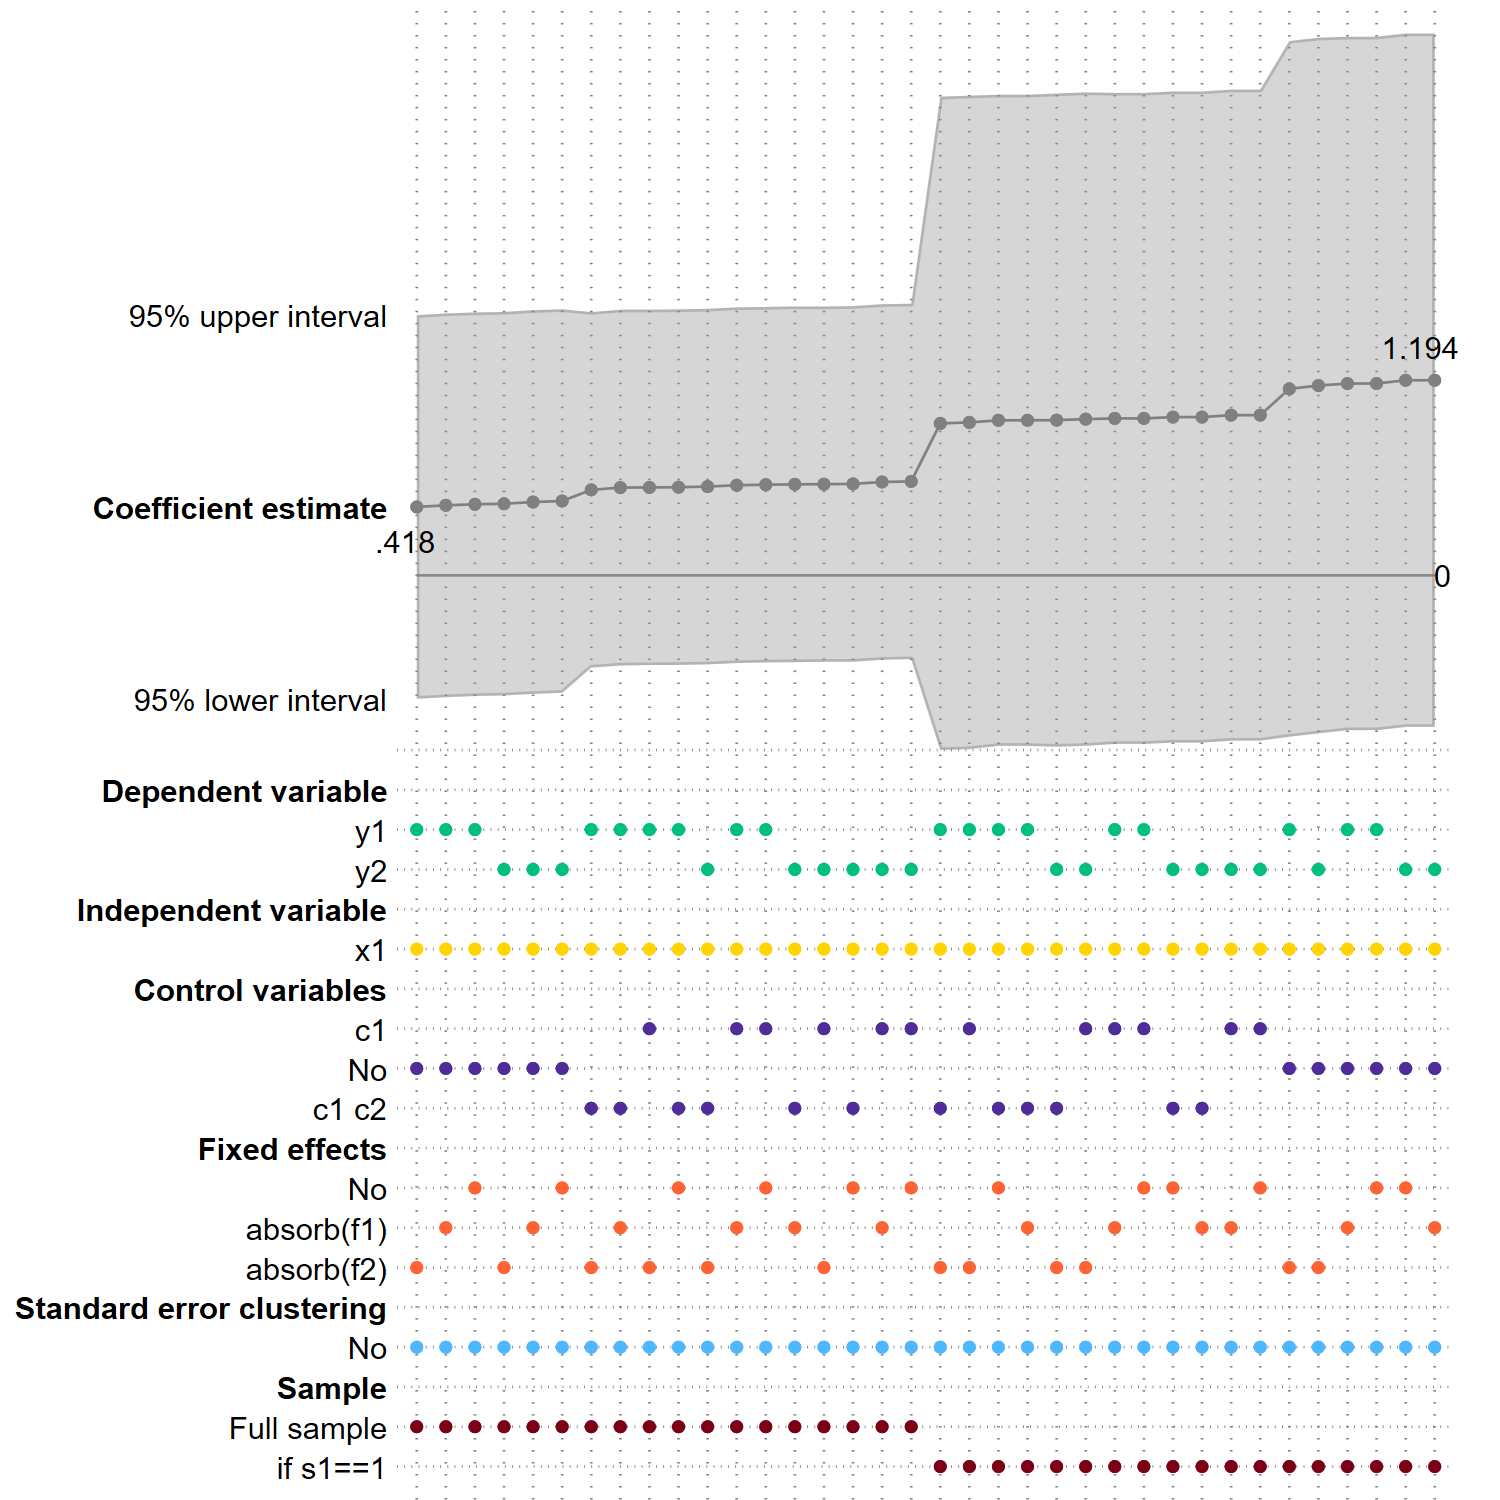
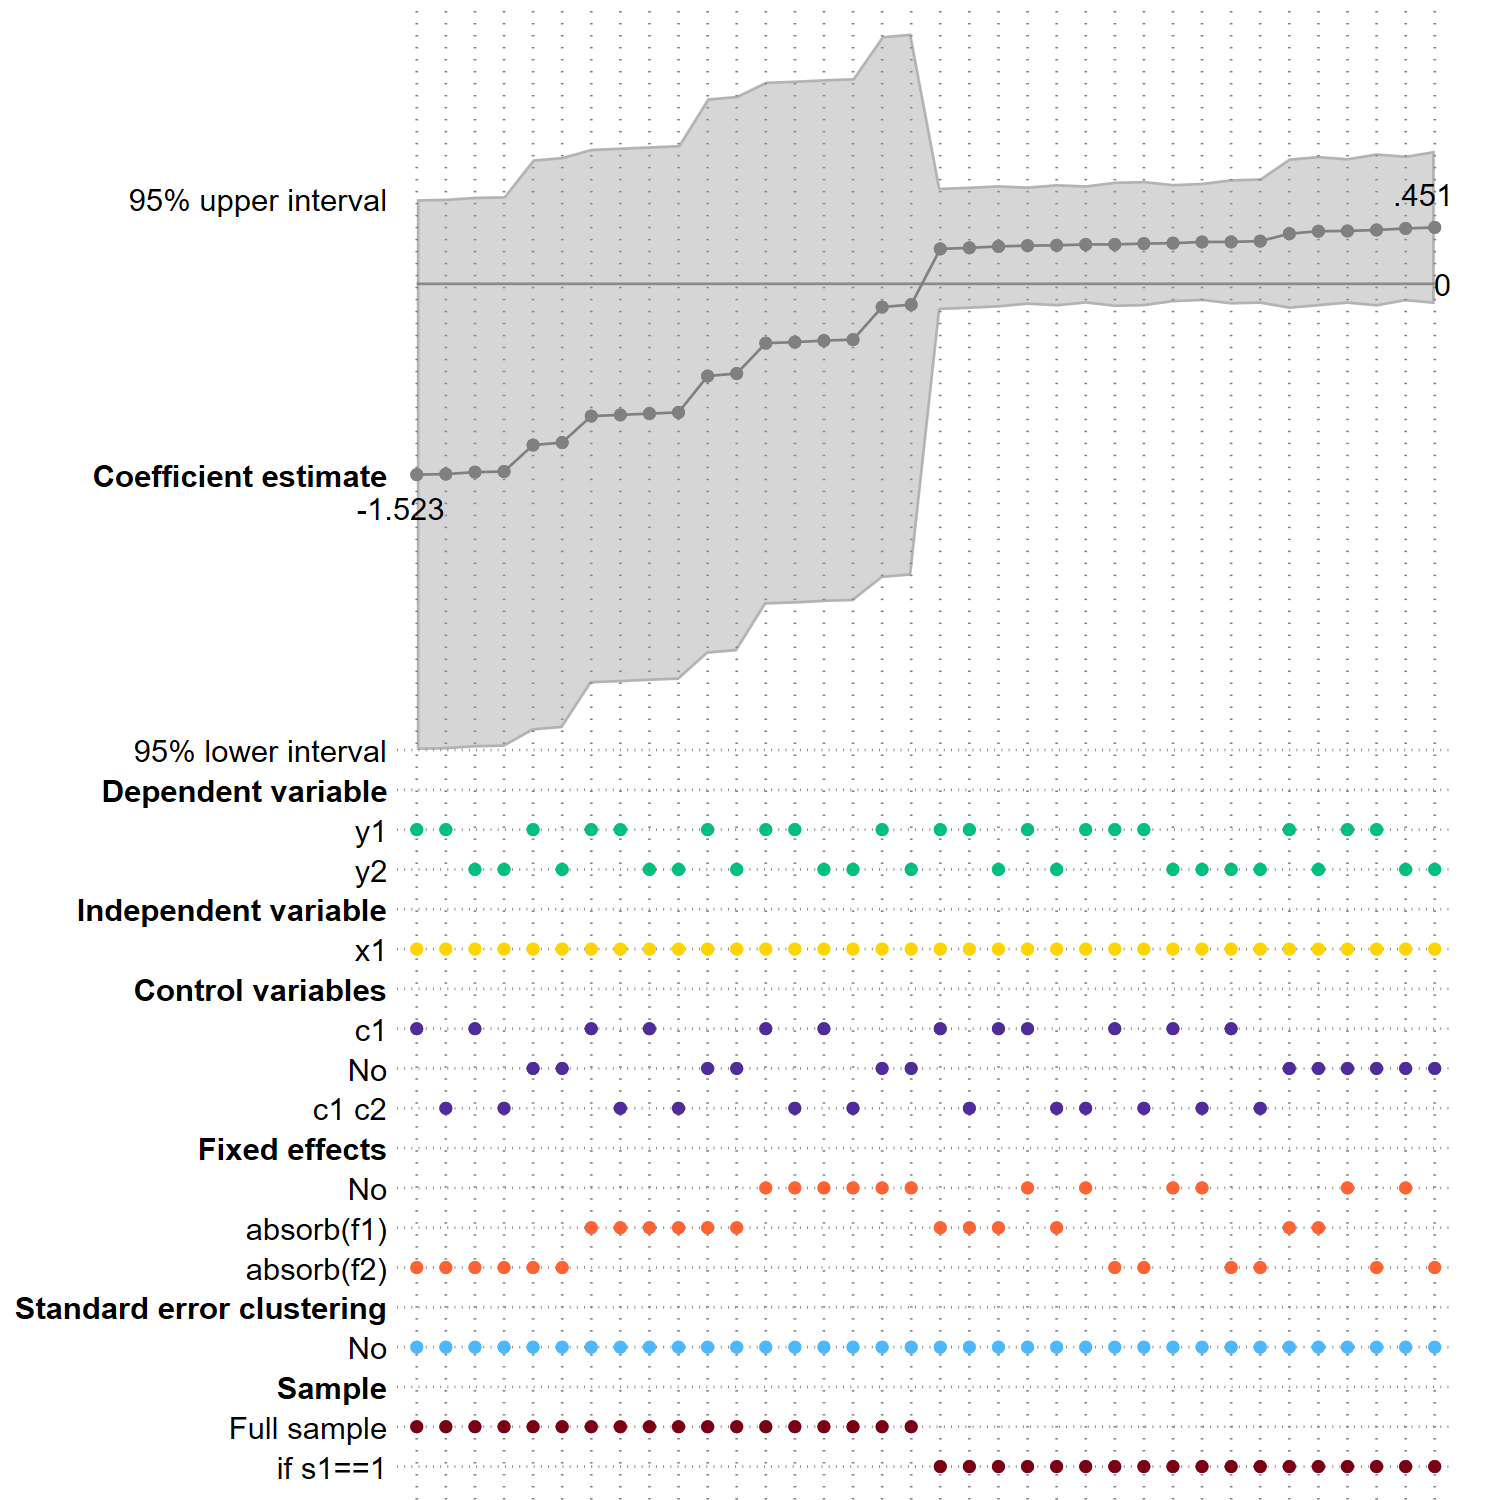
support multiple variables in indep sets

diff --git a/README.md b/README.md
@@ -1,6 +1,6 @@
 # robustreg
 
-Last updated on 19th October, 2025.
+Last updated on 4th February, 2026.
 
 `robustreg` is useful for specification curve analysis, meta analysis, and robustness. It systematically runs a series of regressions based on user-defined specification combinations, plots the results, and saves the output to a dataset.
 
@@ -34,7 +34,7 @@ robustreg, dep(str) indep(str) [options]
 #### Regression Options (using `reghdfe`)
 
 * `dep(str)`: A list of dependent variables.
-* `indep(str)`: A list of key independent variables.
+* `indep(str)`: A list of sets of independent variables. Minimum number of sets is 1. Allow multiple variables within each set. If you use multiple sets, specification curve will only use the estimated coefficients for the first variable within each set
 * `sample(str)`: A list of sample variables (that equal 1) to define the samples used in regressions.
 * `control(str)`: A list of control variable sets.
 * `fe(str)`: A list of fixed effects.
@@ -91,8 +91,8 @@ gen s1 = mod(_n, 2) == 1
 gen s2 = mod(_n-1, 3) + 1 == 1
 
 // Fixed effect variables
-gen f1 = mod(_n, 2) == 1
-gen f2 = mod(_n-1, 3) + 1
+gen f1 = mod(_n, 50)
+gen f2 = mod(_n, 100)
 ```
 
 #### Example 1: Save Regression Results Only
@@ -100,7 +100,7 @@ gen f2 = mod(_n-1, 3) + 1
 This command runs all possible regressions and saves the results to `regtab1.dta`, without generating a plot.
 
 ```stata
-robustreg , dep(y1, y2) indep(x1) control(c1, , c1 c2) fe( , f1, f2) sample( , s1) se(robust, , f2) save("regtab1")
+robustreg , dep(y1, y2) indep(x1, x1 x2) control(c1, , c1 c2) fe( , f1, f2) sample( , s1) se(robust, , f2) save("regtab1")
 ```
 The results are as follows:
 
